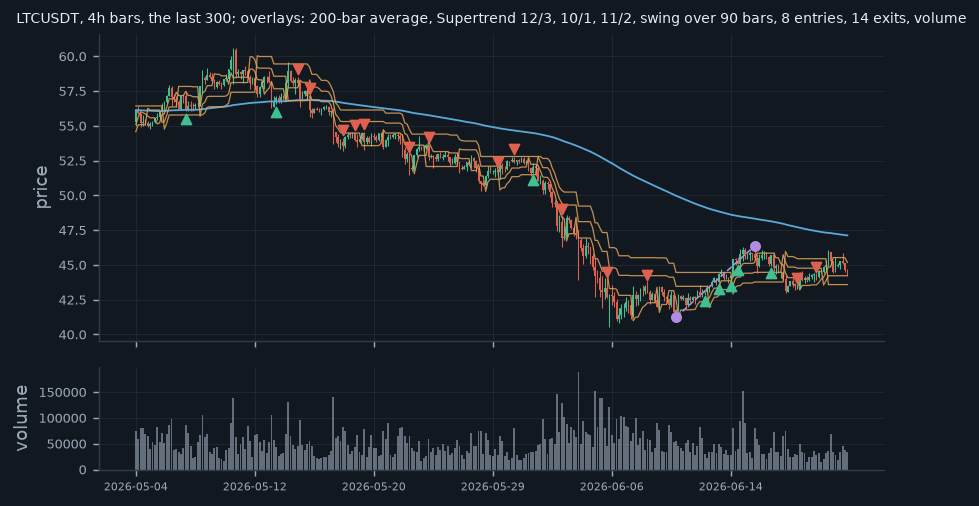
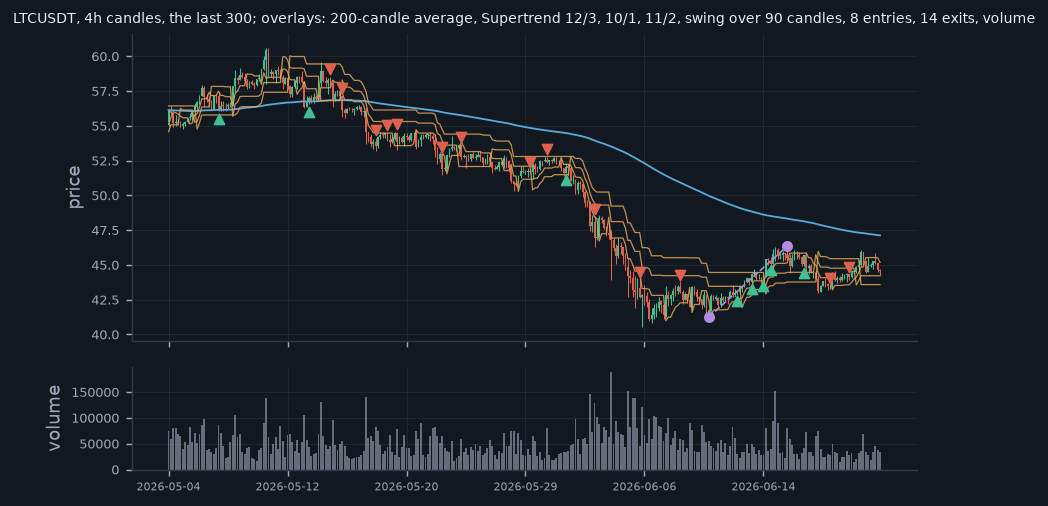
Say candle and test period in run figure titles, and redraw the four signal pictures the panels show

diff --git a/03-inputs/bench_figures.py b/03-inputs/bench_figures.py
@@ -52,12 +52,12 @@ THEMES = {
 WHAT = {
     "candles": "price candles over the charted span, with the chosen overlays",
     "macd": "the MACD lines, the histogram and the noise band a crossing must clear",
-    "confluence": "how many of the four engines agreed, bar by bar",
+    "confluence": "how many of the four engines agreed, candle by candle",
     "fibonacci": "the Fibonacci levels of the swing the engine found",
-    "reliability": "stated probability against what happened, on the blind period",
-    "importance": "how much each column mattered, by permutation on the blind period",
+    "reliability": "stated probability against what happened, on the test period",
+    "importance": "how much each column mattered, by permutation on the test period",
     "selectivity": "return per trade after cost against how choosy the model is",
-    "equity": "the account curve of the trades taken on the blind period",
+    "equity": "the account curve of the trades taken on the test period",
 }
 
 
@@ -144,7 +144,7 @@ def draw_candles(cfg, t, ctx):
     if "ema200" in overlays:
         ema = show["close"].ewm(span=200, adjust=False).mean()
         ax.plot(x, ema, color=t["blue"], linewidth=1.0)
-        drawn.append("200-bar average")
+        drawn.append("200-candle average")
     if "supertrend" in overlays:
         import build_dataset_1h as bd
         for period, mult in bd.ST_BANDS:
@@ -160,7 +160,7 @@ def draw_candles(cfg, t, ctx):
                        color=t["purple"], zorder=6)
             ax.plot([sw.lo_idx, sw.hi_idx], [sw.lo, sw.hi], color=t["purple"],
                     linewidth=0.9, linestyle="--")
-            drawn.append(f"swing over {cfg['signals']['fib_lookback']} bars")
+            drawn.append(f"swing over {cfg['signals']['fib_lookback']} candles")
     if overlays & {"entries", "exits"}:
         conf = cc._engine("confluence").compute_confluence(show, cc._conf_cfg(cfg))
         if "entries" in overlays:
@@ -180,7 +180,7 @@ def draw_candles(cfg, t, ctx):
         drawn.append("volume")
 
     ax.set_ylabel("price")
-    ax.set_title(f"{sym}, {cc._interval(frame)} bars, the last {len(show)}"
+    ax.set_title(f"{sym}, {cc._interval(frame)} candles, the last {len(show)}"
                  + (f"; overlays: {', '.join(drawn)}" if drawn else
                     "; no overlays ticked"), fontsize=8)
     _date_axis(axes[-1] if want_vol else ax, show, t)
@@ -217,7 +217,7 @@ def draw_macd(cfg, t, ctx):
     axes[0].set_ylabel("price")
     axes[0].set_title(f"{sym}: MACD {s['macd_fast']}/{s['macd_slow']}/{s['macd_signal']}, "
                       f"noise band {s['macd_noise_k']:g} sigma, confirmed over "
-                      f"{s['macd_confirm_bars']} bar(s): {int(buy.sum())} buys, "
+                      f"{s['macd_confirm_bars']} candle(s): {int(buy.sum())} buys, "
                       f"{int(sell.sum())} sells", fontsize=8)
 
     hist, eps = sig["hist"].to_numpy(), sig["eps"].to_numpy()
@@ -254,7 +254,7 @@ def draw_confluence(cfg, t, ctx):
     s = cfg["signals"]
     ax.set_ylabel("engines agreeing, minus one to plus one each")
     ax.set_title(f"{sym}: score to fire {thr:g}, averages {s['ma_fast']}/{s['ma_slow']}, "
-                 f"a candle signal lasting {s['candle_decay']} bars; "
+                 f"a candle signal lasting {s['candle_decay']} candles; "
                  f"{int(conf['buy'].sum())} buys, {int(conf['sell'].sum())} sells",
                  fontsize=8)
     _date_axis(ax, show, t)
@@ -280,7 +280,7 @@ def draw_fibonacci(cfg, t, ctx):
     if sw is None or sw.rng <= 0:
         ax.set_title(f"{sym}: no swing cleared "
                      f"{s['fib_min_swing_frac']:g} of price over "
-                     f"{s['fib_lookback']} bars", fontsize=8)
+                     f"{s['fib_lookback']} candles", fontsize=8)
     else:
         for ratio, price in fib.retracement_levels(sw, fcfg).items():
             ax.axhline(price, color=t["purple"], linewidth=0.7, alpha=0.7)
@@ -290,7 +290,7 @@ def draw_fibonacci(cfg, t, ctx):
         ax.axhspan(lo, hi, color=t["purple"], alpha=0.14, zorder=0)
         ax.scatter([sw.lo_idx, sw.hi_idx], [sw.lo, sw.hi], s=26, color=t["orange"],
                    zorder=6)
-        ax.set_title(f"{sym}: swing over {s['fib_lookback']} bars, "
+        ax.set_title(f"{sym}: swing over {s['fib_lookback']} candles, "
                      f"{'up' if sw.up else 'down'}, a range of "
                      f"{sw.rng / max(sw.hi, 1e-9) * 100:.1f} per cent of price; "
                      f"the shaded band is the 0.5 to 0.618 pocket", fontsize=8)
@@ -308,7 +308,7 @@ def draw_reliability(cfg, t, ctx):
     p, y = ctx.get("p_blind"), ctx.get("y_blind")
     fig, ax = _fig(t, h=3.4, w=5.2)
     if p is None:
-        _nothing(ax, t, "no fitted model on this run to score the blind period with")
+        _nothing(ax, t, "no fitted model on this run to score the test period with")
         return fig
     bins = int(cfg["calibration"].get("bins") or 10)
     edges = np.linspace(0, 1, bins + 1)
@@ -325,7 +325,7 @@ def draw_reliability(cfg, t, ctx):
                color=t["blue"], zorder=5)
     ax.plot(xs, ys, color=t["blue"], linewidth=1.0)
     ax.set_xlabel("stated probability"); ax.set_ylabel("how often it happened")
-    ax.set_title(f"{ctx['model']} on {len(p):,} blind rows, {bins} bins; the flat line "
+    ax.set_title(f"{ctx['model']} on {len(p):,} test rows, {bins} bins; the flat line "
                  f"is the base rate {y.mean():.3f}", fontsize=8)
     fig.tight_layout()
     return fig
@@ -353,7 +353,7 @@ def draw_importance(cfg, t, ctx):
     ax.tick_params(axis="y", labelsize=6)
     ax.set_xlabel("rise in Brier score when the column is shuffled")
     ax.set_title(f"{ctx['model']}: the 18 columns of {len(feats)} that mattered most, "
-                 f"on {n:,} blind rows", fontsize=8)
+                 f"on {n:,} test rows", fontsize=8)
     fig.tight_layout()
     return fig
 
@@ -377,14 +377,14 @@ def draw_selectivity(cfg, t, ctx):
             continue
         xs.append(float(q)); ys.append(float(ret[m].mean() - cost)); ns.append(int(m.sum()))
     if not xs:
-        _nothing(ax, t, "too few blind rows to draw a selectivity curve")
+        _nothing(ax, t, "too few test rows to draw a selectivity curve")
         return fig
     ax.plot(xs, np.array(ys) * 100, color=t["blue"], linewidth=1.2, marker="o",
             markersize=3)
     ax.axhline(0, color=t["ink"], linewidth=0.9)
     ax.axhline((ret[ok].mean() - cost) * 100, color=t["soft"], linestyle="--",
                linewidth=0.9)
-    ax.set_xlabel("share of blind rows skipped, least confident first")
+    ax.set_xlabel("share of test rows skipped, least confident first")
     ax.set_ylabel("return per trade after cost, per cent")
     ax.set_title(f"{ctx['model']}: charging {cost * 100:.2f} per cent a trade; the dashed "
                  f"line is taking every row, {(ret[ok].mean() - cost) * 100:+.3f} per cent",
@@ -406,7 +406,7 @@ def draw_equity(cfg, t, ctx):
     thr = np.nanquantile(d["p"].to_numpy(float), 0.8)
     taken = np.isfinite(ret) & (d["p"].to_numpy(float) >= thr)
     if taken.sum() < 5:
-        _nothing(ax, t, "fewer than five trades taken on the blind period")
+        _nothing(ax, t, "fewer than five trades taken on the test period")
         return fig
     curve = np.cumprod(1.0 + ret[taken] - cost)
     market = np.cumprod(1.0 + ret[np.isfinite(ret)] - cost)
@@ -457,7 +457,7 @@ def draw_all(cfg: dict, rows=None, est=None, train=None, test=None, feats=None,
             ctx["p_blind"] = est.predict_proba(test[feats])[:, 1]
             ctx["y_blind"] = test["label"].to_numpy()
         except Exception as exc:                        # noqa: BLE001
-            log(f"  blind probabilities unavailable for the figures: {exc}")
+            log(f"  test probabilities unavailable for the figures: {exc}")
 
     drawn = []
     log(f"figures: {', '.join(want)}, {cfg['viz'].get('theme', 'light')} theme")
